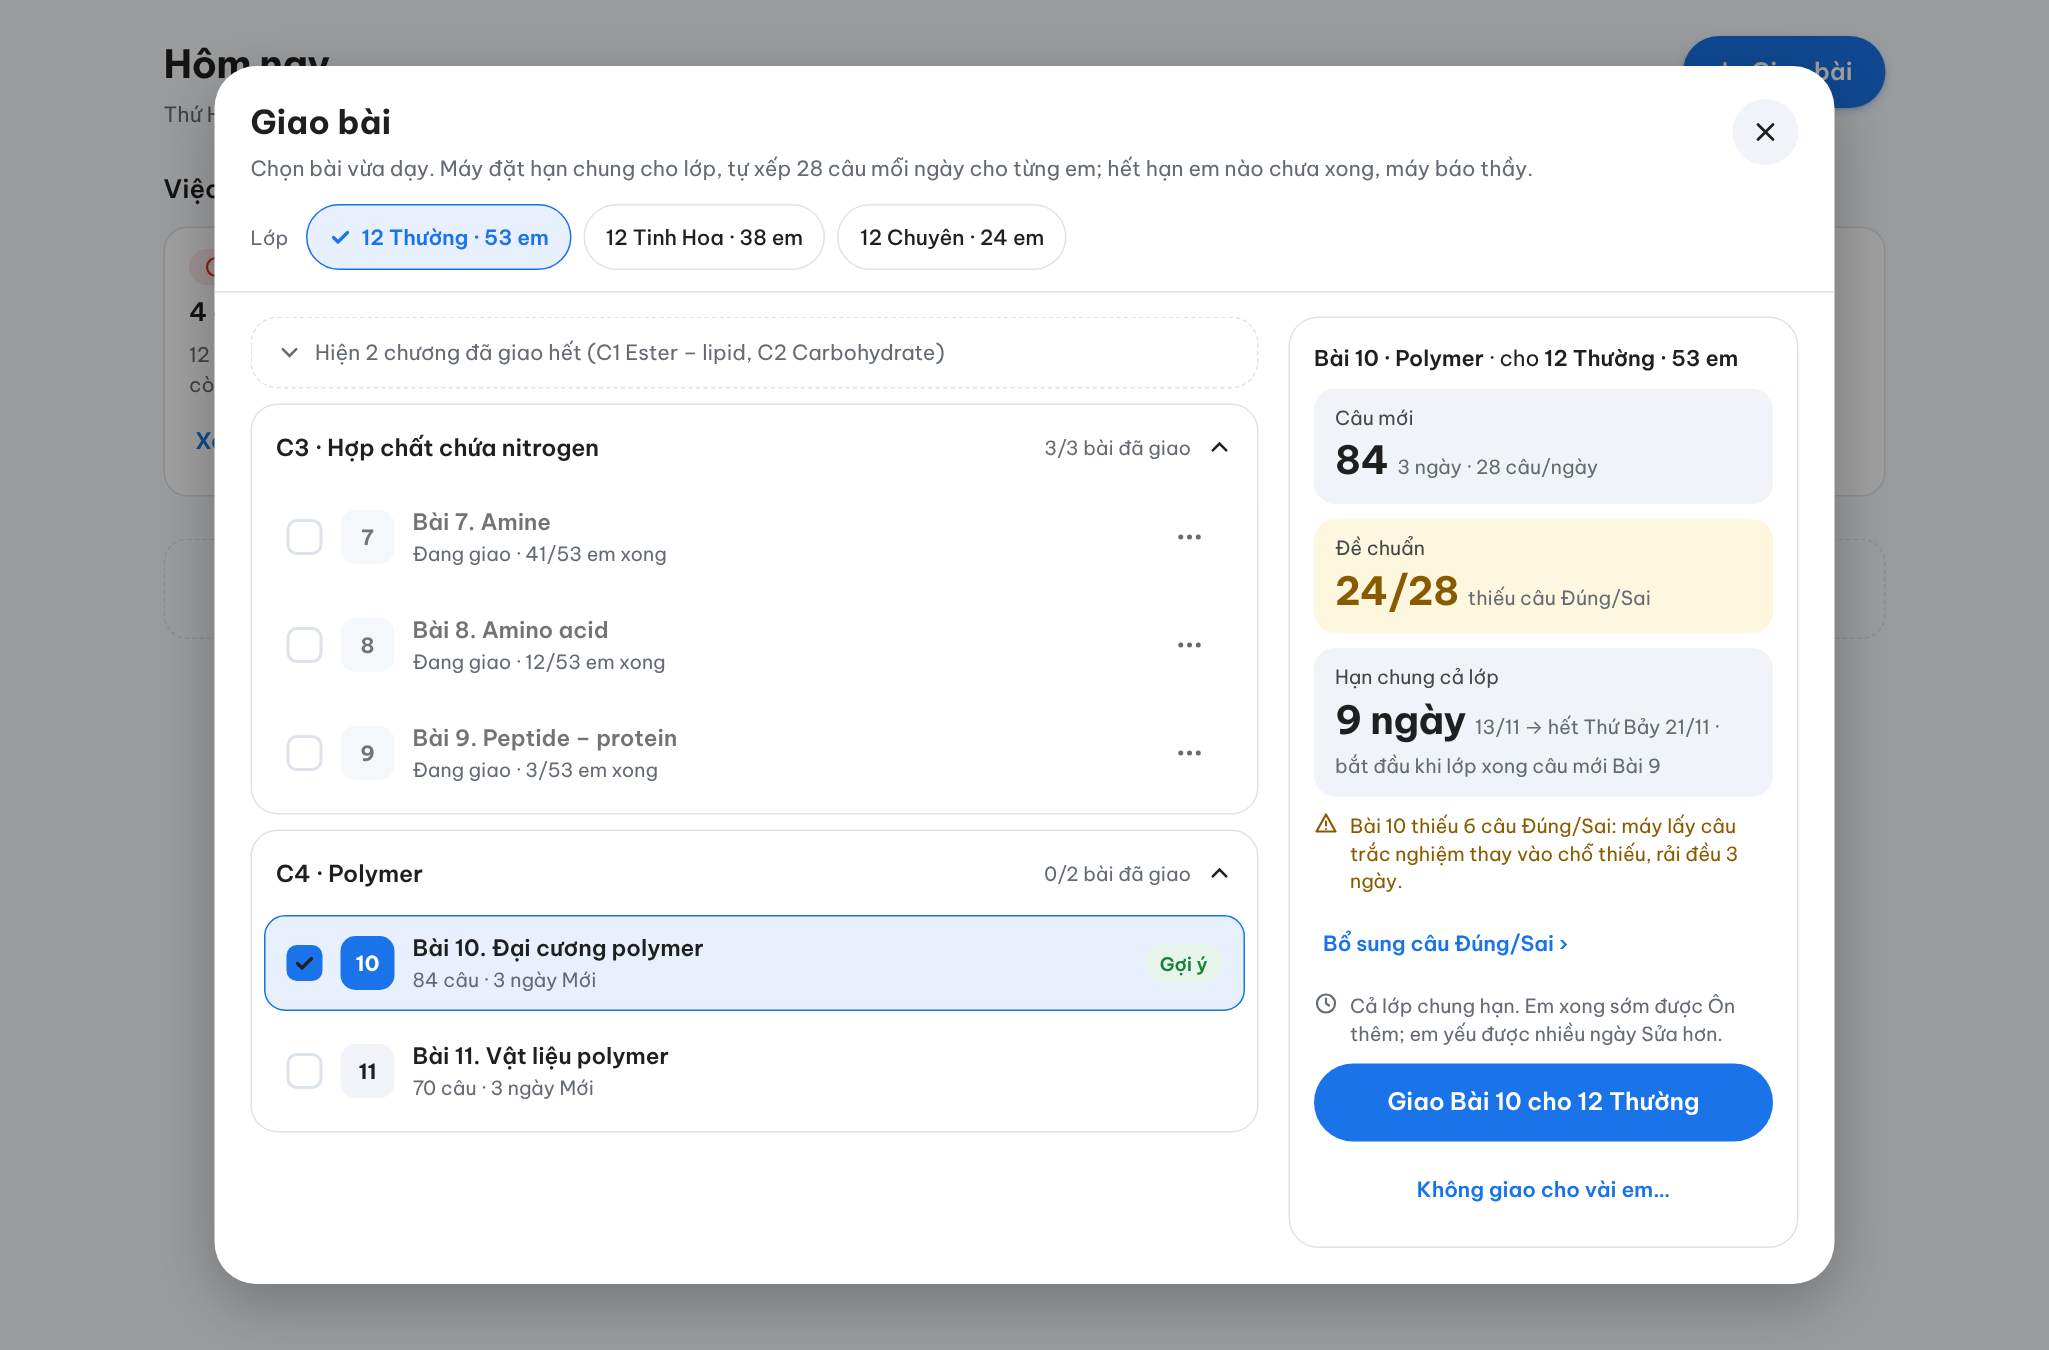
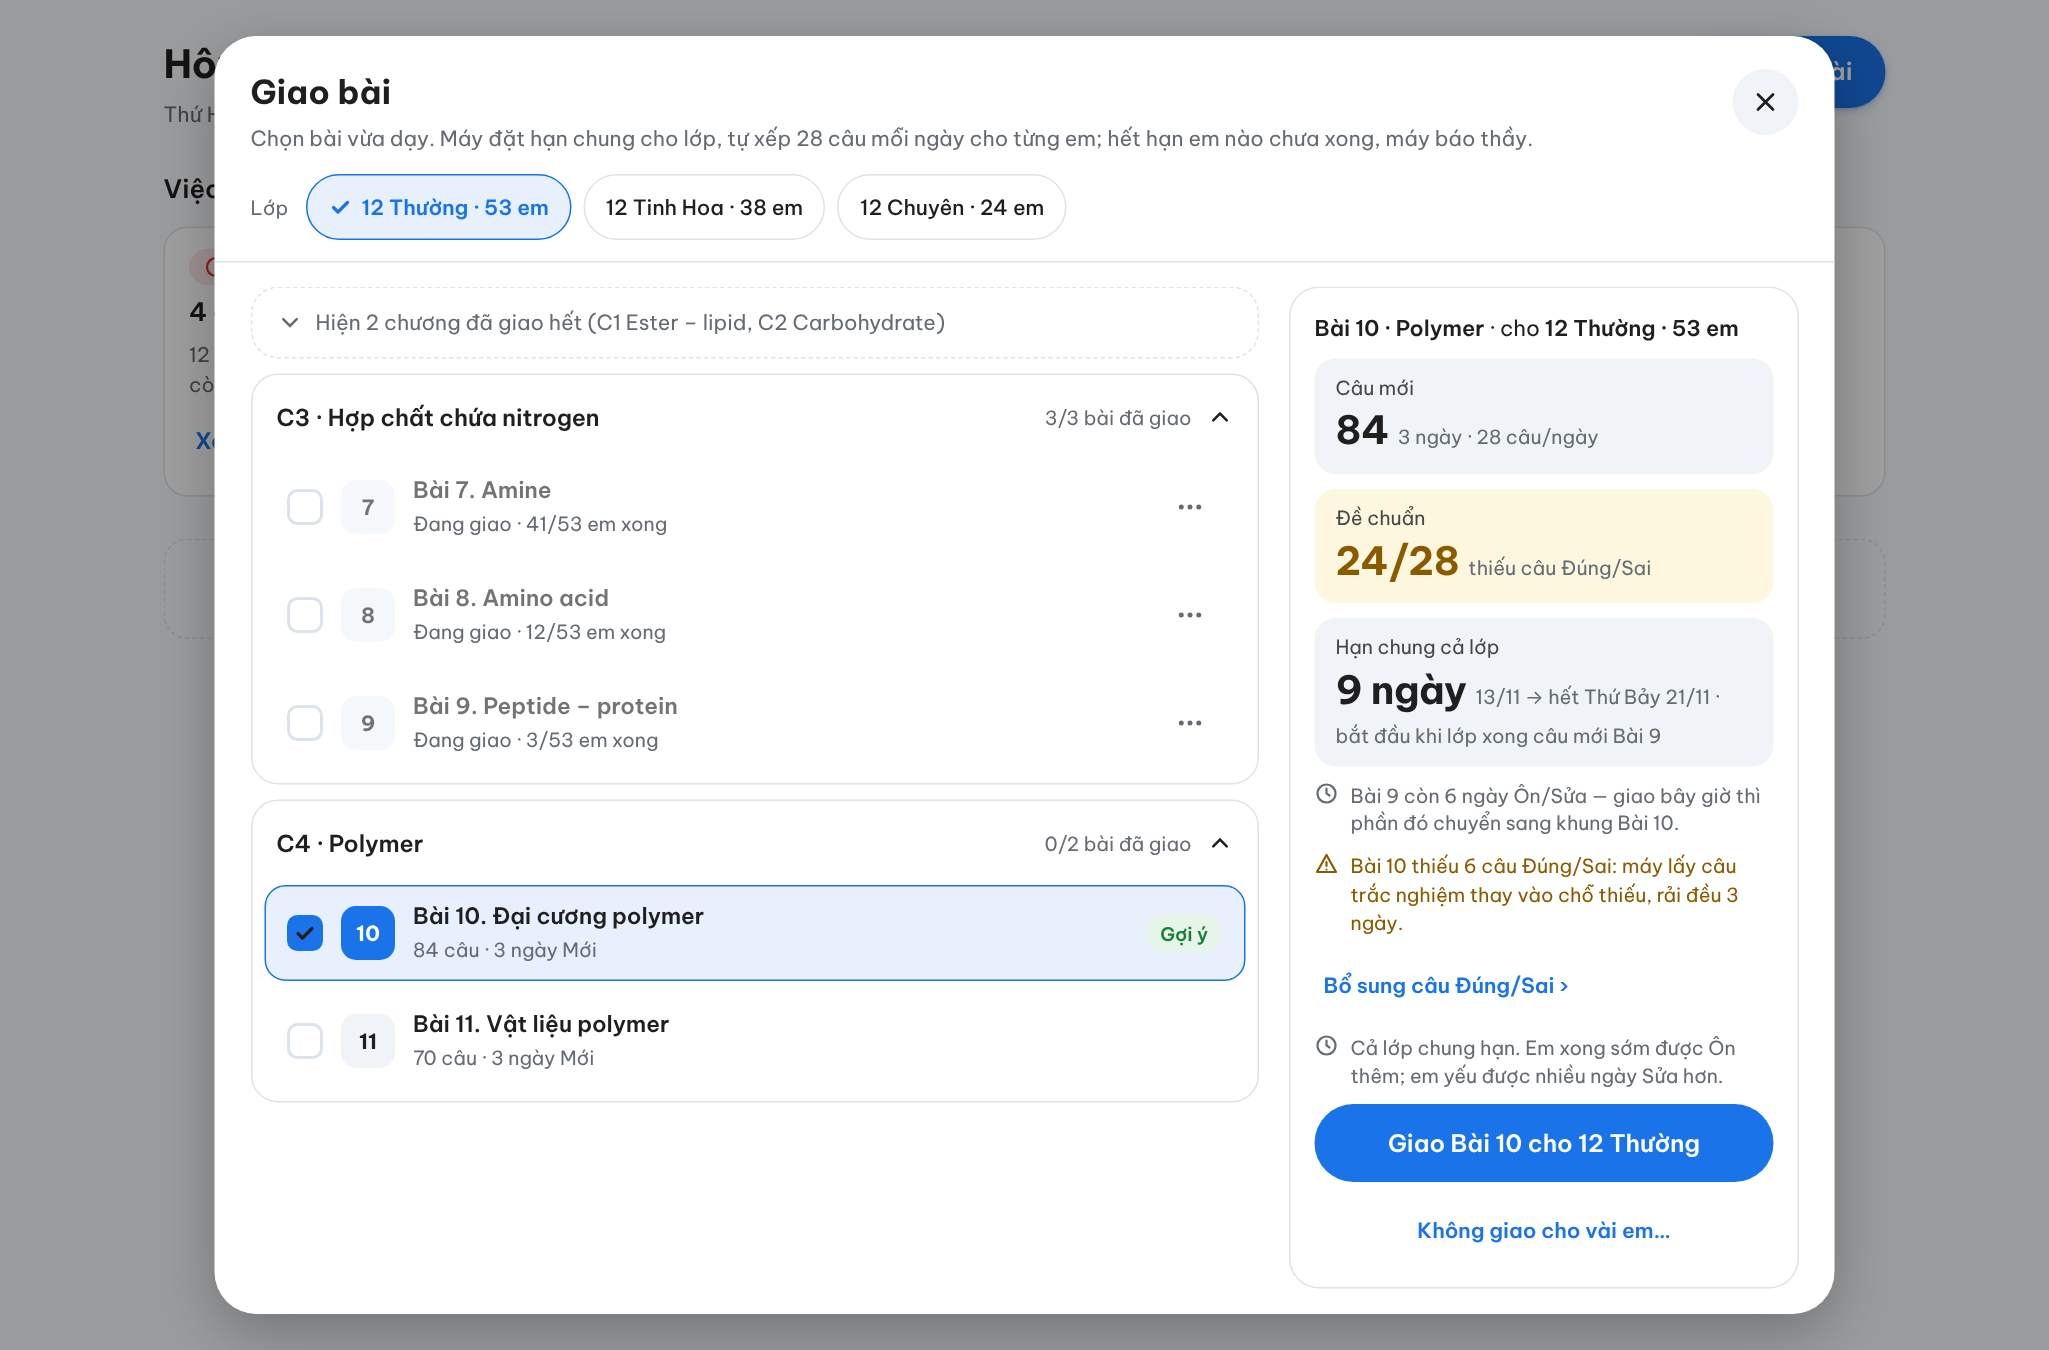
Hạn chung: ghi đúng hai con số (luật 12–13 ngày khi chưa hiệu chỉnh, giả lập 10 ngày đủ 92–100 %), giao sớm đóng khung bài trước (không báo hết hạn sai), câu mới còn nợ làm đầu khung kế, hạn theo từng lớp; lỗi mang sang không tăng dần
Claude-Session: https://claude.ai/code/session_01GhxeuuDnUkYABFVHka6tcT

Changed region(s): [[0.0937, 0.2178, 0.9058, 0.9956], [0.0937, 0.0, 0.9058, 0.5911], [0.4998, 0.28, 0.5935, 0.3422]]

diff --git a/docs/ban-ve-giao-bai-0911/giao-bai.html b/docs/ban-ve-giao-bai-0911/giao-bai.html
@@ -181,6 +181,7 @@ function hopChon(thieu){
     ${tom}
     <div class="o-so"><small>Hạn chung cả lớp</small><strong>${xong}</strong><em>${moc}</em></div>
    </div>
+   ${thieu?`<div class="ghi">${I.dongho}<span>Bài 9 còn 6 ngày Ôn/Sửa — giao bây giờ thì phần đó chuyển sang khung Bài 10.</span></div>`:''}
    ${thieu?`<div class="ghi" style="color:var(--bts-vang-chu)">${I.canh}<span>Bài 10 thiếu 6 câu Đúng/Sai: máy lấy câu trắc nghiệm thay vào chỗ thiếu, rải đều 3 ngày.</span></div><button class="nut-phu" style="align-self:flex-start">Bổ sung câu Đúng/Sai ›</button>`:''}
    <div class="ghi">${I.dongho}<span>Cả lớp chung hạn. Em xong sớm được Ôn thêm; em yếu được nhiều ngày Sửa hơn.</span></div>
    <button class="nut-chinh">Giao ${thieu?'Bài 10':'Bài 9'} cho 12 Thường</button>

diff --git a/docs/de-xuat-28-cau-mo-phong/han-chung.py b/docs/de-xuat-28-cau-mo-phong/han-chung.py
@@ -42,7 +42,7 @@ def mot_lop(P,seed,so_bai=10,N=112):
             (on_gioi if e.a>0.75 else on_yeu if e.a<0.25 else []).append(seq.count('O'))
             if e.a<0.25: sua_yeu.append(seq.count('S'))
         mang=[len(e.mang) for e in lop]
-        kq.append((T,sach,sum(on_gioi)/len(on_gioi),sum(on_yeu)/len(on_yeu),sum(sua_yeu)/len(sua_yeu),max(mang)))
+        kq.append((T,sach,sum(on_gioi)/len(on_gioi),sum(on_yeu)/len(on_yeu),sum(sua_yeu)/len(sua_yeu),max(mang),sum(mang)/len(mang)))
     return kq
 for P in (0.5,0.8,0.9,1.0):
     ds=[mot_lop(P,s) for s in range(3)]
@@ -51,3 +51,5 @@ for P in (0.5,0.8,0.9,1.0):
     mm=max(k[5] for d in ds for k in d)
     print(f"Hạn chung theo phân vị {int(P*100):3d}%: T = {min(T)}–{max(T)} ngày/bài · xong sạch lỗi trong hạn {min(sach)}–{max(sach)}/53 em · "
           f"ngày Ôn: em giỏi {og:.1f}, em yếu {oy:.1f} · ngày Sửa em yếu {sy:.1f} · nhóm lỗi mang sang tối đa {mm}")
+    tb=lambda i:sum(d[i][6] for d in ds)/len(ds)
+    print(f"      nhóm lỗi mang sang trung bình mỗi em sau bài 3 / 6 / 10: {tb(2):.1f} / {tb(5):.1f} / {tb(9):.1f}")

diff --git a/docs/ban-ve-giao-bai-0911/DAC-TA.md b/docs/ban-ve-giao-bai-0911/DAC-TA.md
@@ -36,9 +36,15 @@ Thầy: «thiết kế 1 nút giao bài ngay ở màn hôm nay, bấm vào popup
 ## 3b. HẠN CHUNG CẢ LỚP (thầy 09/11: «hạn chung cho học sinh vì học sinh đang phải học cùng nhau trên lớp»)
 - **Hạn chung T = số ngày ít nhất mà máy dự kiến ≥ 90 % em của lớp làm xong hết** (hết câu mới + sửa sạch lỗi của bài + ít nhất 1 ngày Ôn). Dự kiến từng em = M + 1 + số ngày Sửa dự báo theo năng lực từng ô của em (+ lỗi đang mang sang); máy hiệu chỉnh bằng kết quả thật mỗi tháng.
 - **Cá nhân hoá nằm TRONG cùng hạn:** mọi em M ngày Mới như nhau (cả lớp xong câu mới cùng ngày) → 1 ngày Ôn → Sửa đến sạch → còn ngày thì Ôn thêm. Em giỏi: nhiều ngày Ôn; em yếu: nhiều ngày Sửa. Chỉ Ôn thêm khi đã sạch lỗi (Ôn khi còn lỗi sinh thêm lỗi).
-- Giả lập lớp 53 em, bài 112 câu (`docs/de-xuat-28-cau-mo-phong/han-chung.py`, giả định): hạn 10 ngày ⇒ 49–53/53 em sửa sạch lỗi của bài trong hạn; em giỏi được ~2 ngày Ôn, em yếu ~5 ngày Sửa; hạn dài hơn chỉ thêm ngày Ôn cho em giỏi.
+- Giả lập lớp 53 em, bài 112 câu (`docs/de-xuat-28-cau-mo-phong/han-chung.py`, giả định):
+  - Luật «≥ 90 % em xong» với công thức dự báo CHƯA hiệu chỉnh cho **12–13 ngày** (52–53/53 em xong) — công thức đang tính dư khoảng 2 ngày, nghiêng về an toàn.
+  - Thực tế giả lập: hạn **10 ngày** đã đủ cho 49–53/53 em (92–100 %) ⇒ khi máy hiệu chỉnh dự báo bằng kết quả thật (`su_kien_hoc`), hạn sẽ rút về khoảng 10 ngày. **Phải hiệu chỉnh trước khi bật**; chưa đủ dữ liệu thì dùng hạn an toàn.
+  - Trong hạn 10 ngày: em giỏi được ~2 ngày Ôn, em yếu ~5 ngày Sửa. Hạn dài hơn chỉ thêm ngày Ôn cho em giỏi.
+  - Lỗi mang sang không tăng dần: trung bình ~11 nhóm/em sau bài 3, 6 và 10 (hạn 10 ngày).
 - Em chưa xong khi hết hạn (≤ 10 %): lỗi còn lại sang khung bài sau, sửa trước; báo thầy thẻ «Hết hạn · chưa xong».
-- **Thầy giao bài kế sớm hơn hạn:** vì M chung, cả lớp xong câu mới cùng ngày ⇒ giao sau ngày đó thì khung mới bắt đầu ngay, lỗi dở mang sang; giao trước ngày đó thì bài mới bắt đầu khi lớp xong câu mới bài trước (hộp ghi rõ «bắt đầu 13/11»). Lớp luôn đi cùng nhau.
+- **Thầy giao bài kế sớm hơn hạn:** khung bài trước **đóng ngay ngày bài mới bắt đầu**; lỗi dở là lỗi mang sang (sửa trước ở khung mới), KHÔNG tính «Hết hạn» — thẻ «Hết hạn · chưa xong» chỉ xét khung đóng đúng hạn. Bài mới bắt đầu ngay nếu lớp đã xong câu mới bài trước; chưa xong thì bắt đầu sau ngày đó (cả lớp có cùng số ngày Mới nên xong cùng ngày). Hộp ghi rõ: «Bài 9 còn 6 ngày Ôn/Sửa — giao bây giờ thì phần đó chuyển sang khung Bài 10 · bắt đầu 13/11».
+- **Em bỏ ngày, còn câu mới chưa làm khi hết hạn:** câu mới còn nợ làm ĐẦU khung kế, trước câu mới của bài mới (không em nào bỏ câu mới); em này có trong thẻ «Hết hạn · chưa xong».
+- **Chọn nhiều lớp một lúc:** mỗi lớp một hạn chung riêng (năng lực khác nhau); ô «Hạn chung» hiện theo từng lớp.
 
 ## 4. Dữ liệu
 - Đã có: cây bài theo khối (`bai-hom-nay.ts`), `/gv/bai-da-day danh-sach | xem-truoc | tick | bo-tick`, danh sách em (`useDsEmGiao`), gói 7 (`goi-bai-7*.ts`).
